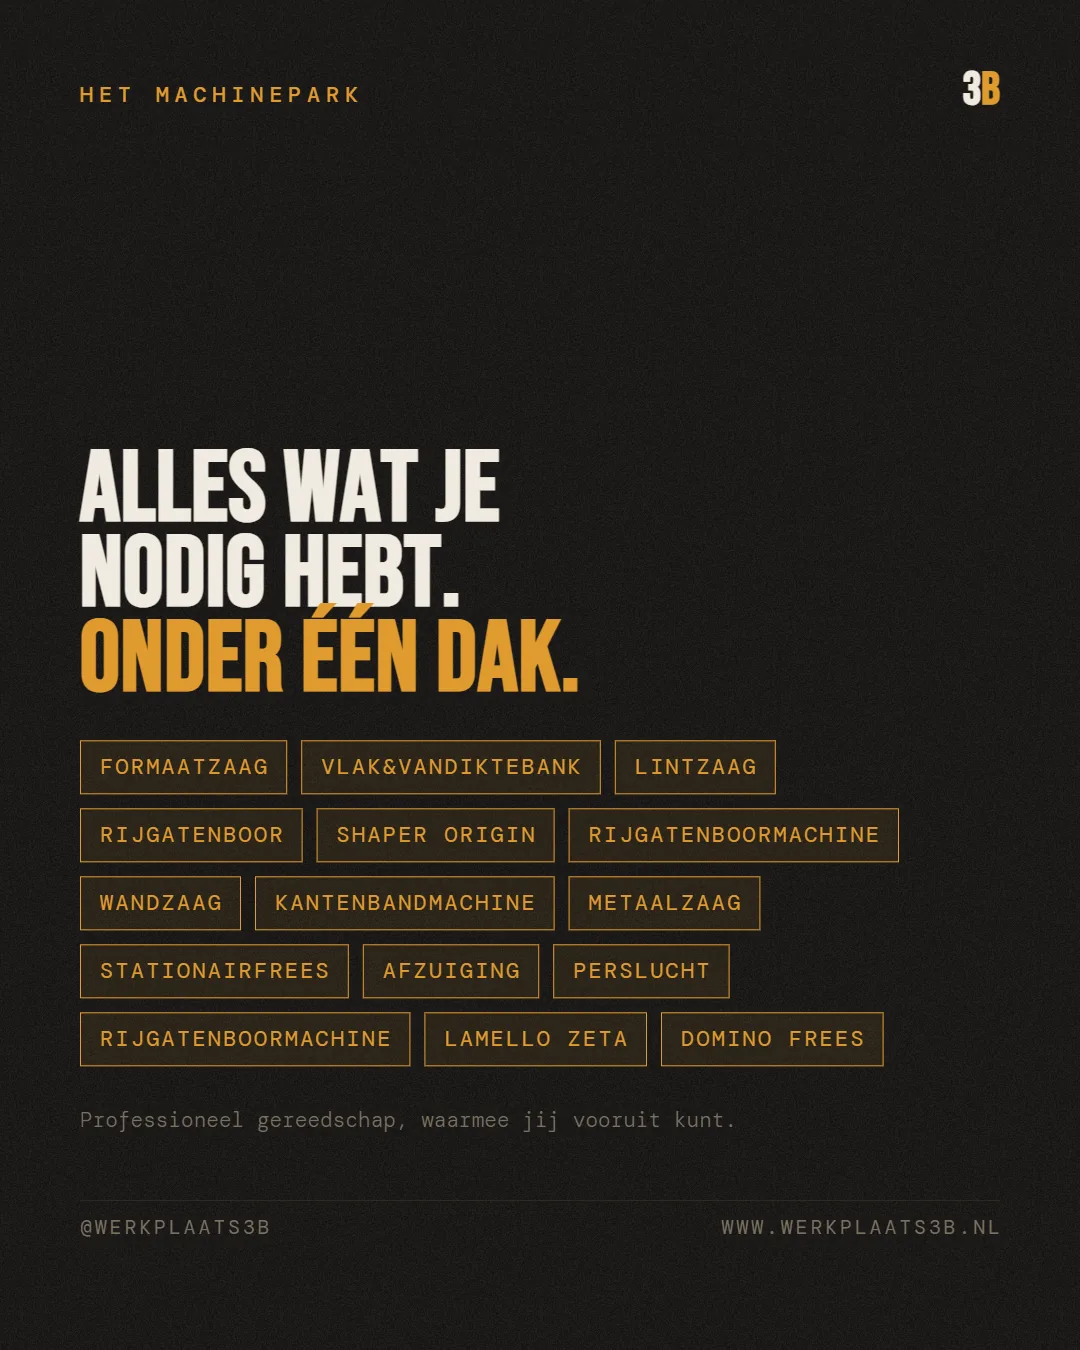
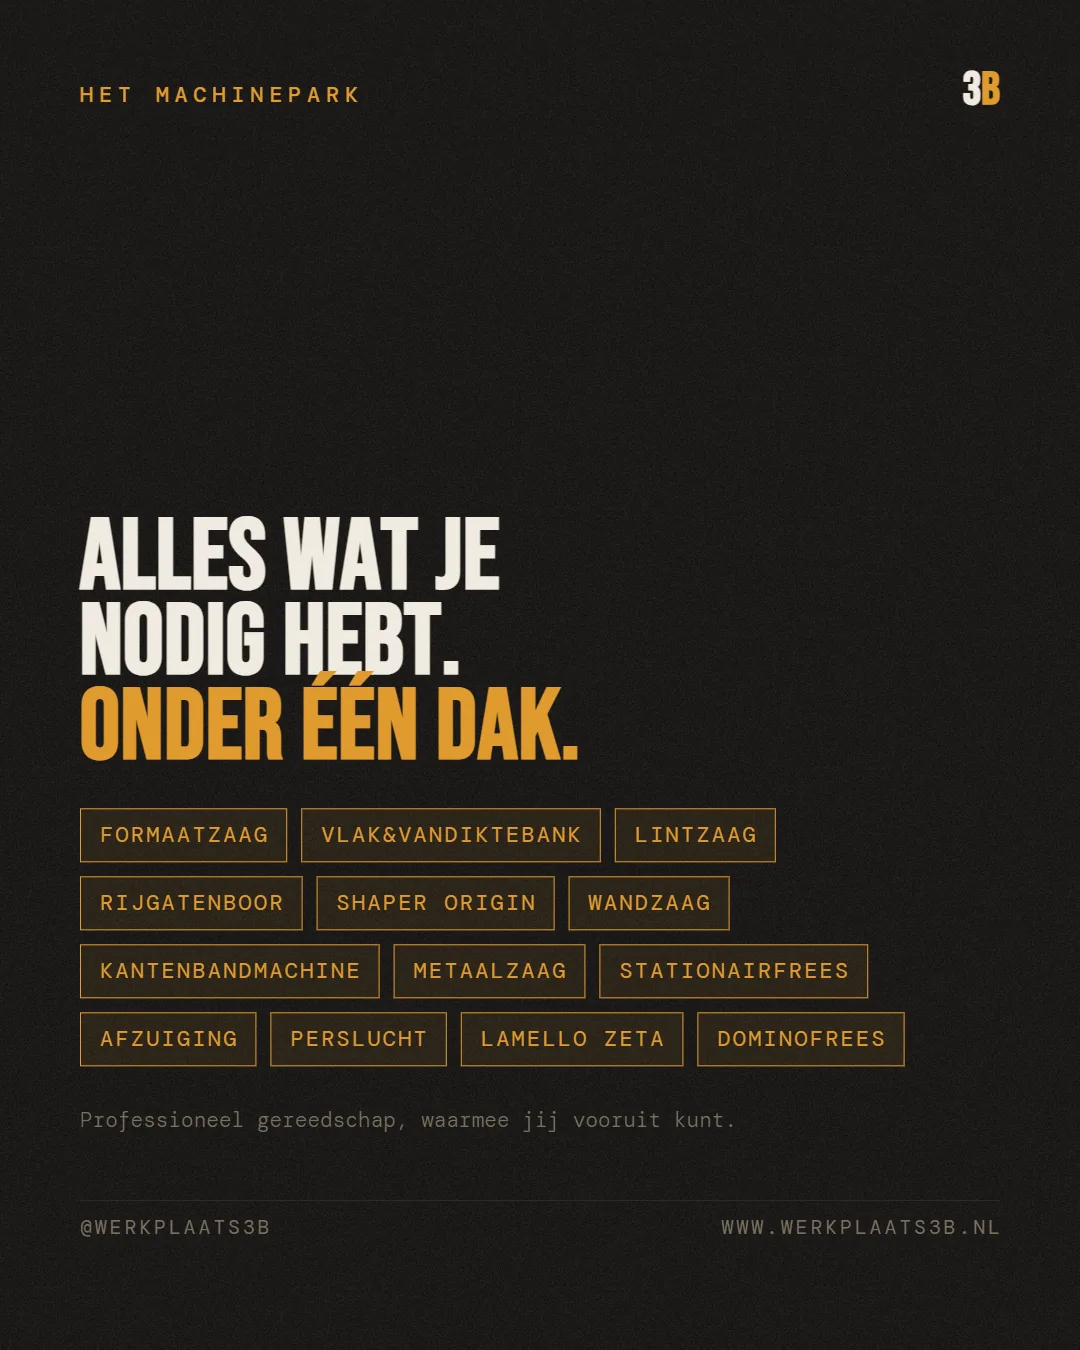
Herziene slides 2+4 en Werkruimte/Atelier-naamgeving doorgevoerd
- c02.webp: machines-slide zonder dubbele tags
- c04.webp: tarievenkaart met Werkruimte/Atelier-categorieen
- content.js + index.html: labels Werkruimte/Atelier BG en 2e verdieping,
  SK-ondertitel 'unit 25m2 120 / werkruimte-atelier 95'
- entree-slides.js: alt-teksten bijgewerkt

Changed region(s): [[0.0611, 0.3111, 0.8556, 0.7778]]

diff --git a/docs/entree-slides.js b/docs/entree-slides.js
@@ -13,9 +13,9 @@ const ENTREE = {
   versie: 1,
   slides: [
     { src: 'photos/entree/c01.webp', alt: 'Ruimte voor ambitie: 850 vierkante meter werkplaats in Maasland, drie units beschikbaar' },
-    { src: 'photos/entree/c02.webp', alt: 'Het machinepark, alles onder een dak: formaatzaag, vlak- en vandiktebank, lintzaag, kantenbandmachine, afzuiging en meer' },
+    { src: 'photos/entree/c02.webp', alt: 'Het machinepark, alles onder één dak: formaatzaag, vlak- en vandiktebank, lintzaag, wandzaag, kantenbandmachine, dominofrees, afzuiging en meer' },
     { src: 'photos/entree/c03.webp', alt: 'Is dit jouw plek? Voor zelfstandige meubelmakers, interieurbouwers en ontwerpers — KvK-inschrijving en verzekering verplicht' },
-    { src: 'photos/entree/c04.webp', alt: 'Wat het kost: werkplek eerste verdieping 945 euro, kantoor begane grond 450 euro, werkruimte tweede verdieping 650 euro, opslag vanaf 75 euro per maand, exclusief btw en servicekosten' },
+    { src: 'photos/entree/c04.webp', alt: 'Wat het kost: werkplek eerste verdieping 945 euro, werkruimte of atelier begane grond 450 euro, werkruimte of atelier tweede verdieping 650 euro, opslag vanaf 75 euro per maand, exclusief btw en servicekosten' },
     { src: 'photos/entree/c05.webp', alt: 'Plan een rondleiding: WhatsApp ons of mail info@werkplaats3b.nl — nog drie units vrij' }
   ]
 };

diff --git a/docs/index.html b/docs/index.html
@@ -1330,14 +1330,14 @@
     </div>
     <div class="pricing-row">
       <div>
-        <div class="label">Kantoor begane grond</div>
-        <div class="sub">Klein, eigen afsluitbare ruimte</div>
+        <div class="label">Werkruimte/Atelier begane grond</div>
+        <div class="sub">Eigen afsluitbare ruimte</div>
       </div>
       <div class="price">€450<small>/mnd</small></div>
     </div>
     <div class="pricing-row">
       <div>
-        <div class="label">Werkruimte 2e verdieping</div>
+        <div class="label">Werkruimte/Atelier 2e verdieping</div>
         <div class="sub">Grote afsluitbare ruimte met eigen opgang</div>
       </div>
       <div class="price">€650<small>/mnd</small></div>
@@ -1352,7 +1352,7 @@
     <div class="pricing-row">
       <div>
         <div class="label">Servicekosten</div>
-        <div class="sub">Energie, schoonmaak en afvalcontainers inbegrepen · unit werkvloer €120 · overige ruimtes €95</div>
+        <div class="sub">Energie, schoonmaak en afvalcontainers inbegrepen · unit 25m2 €120 · werkruimte/atelier €95</div>
       </div>
       <div class="price">Vanaf €95<small>/mnd</small></div>
     </div>

diff --git a/docs/content.js b/docs/content.js
@@ -92,13 +92,13 @@ const CONTENT = {
       "unit": "/mnd"
     },
     {
-      "label": "Kantoor begane grond",
-      "sub": "Klein, eigen afsluitbare ruimte",
+      "label": "Werkruimte/Atelier begane grond",
+      "sub": "Eigen afsluitbare ruimte",
       "price": "€450",
       "unit": "/mnd"
     },
     {
-      "label": "Werkruimte 2e verdieping",
+      "label": "Werkruimte/Atelier 2e verdieping",
       "sub": "Grote afsluitbare ruimte met eigen opgang",
       "price": "€650",
       "unit": "/mnd"
@@ -111,7 +111,7 @@ const CONTENT = {
     },
     {
       "label": "Servicekosten",
-      "sub": "Energie, schoonmaak en afvalcontainers inbegrepen · unit werkvloer €120 · overige ruimtes €95",
+      "sub": "Energie, schoonmaak en afvalcontainers inbegrepen · unit 25m2 €120 · werkruimte/atelier €95",
       "price": "Vanaf €95",
       "unit": "/mnd"
     }
